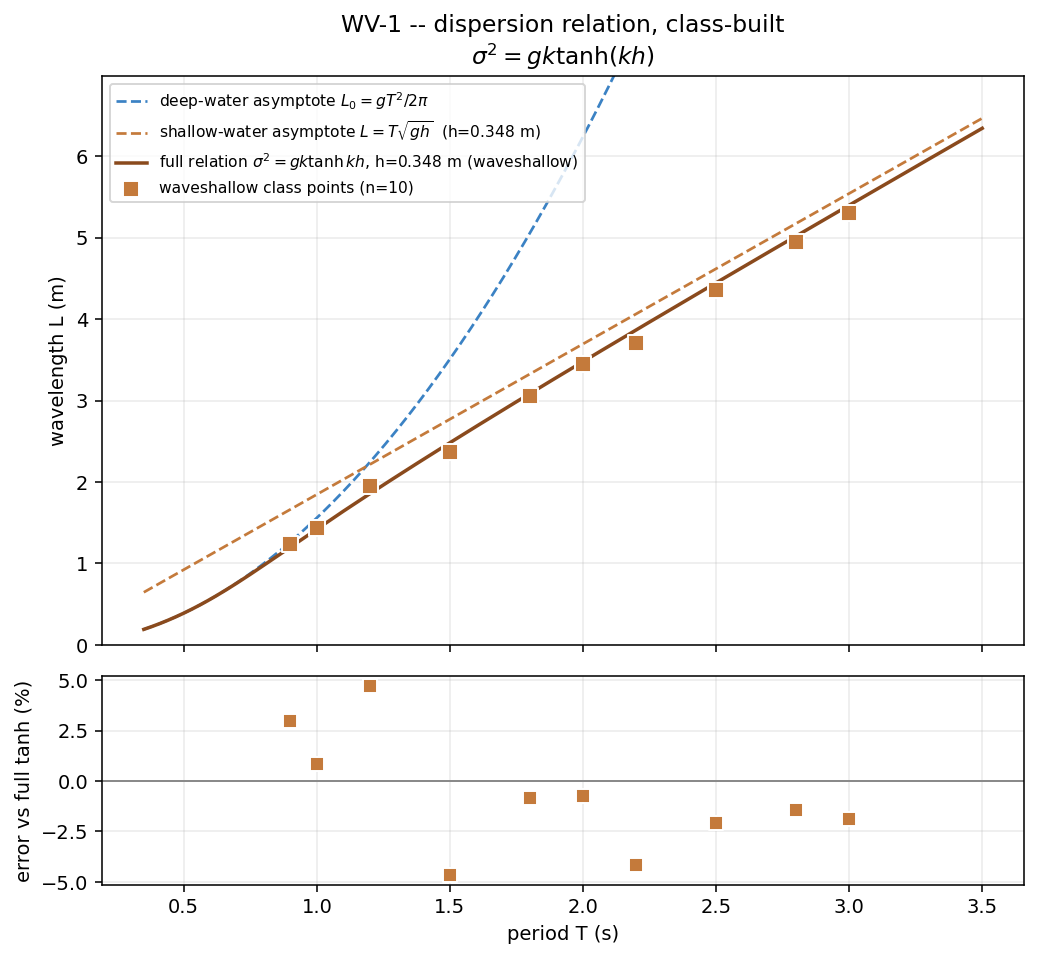
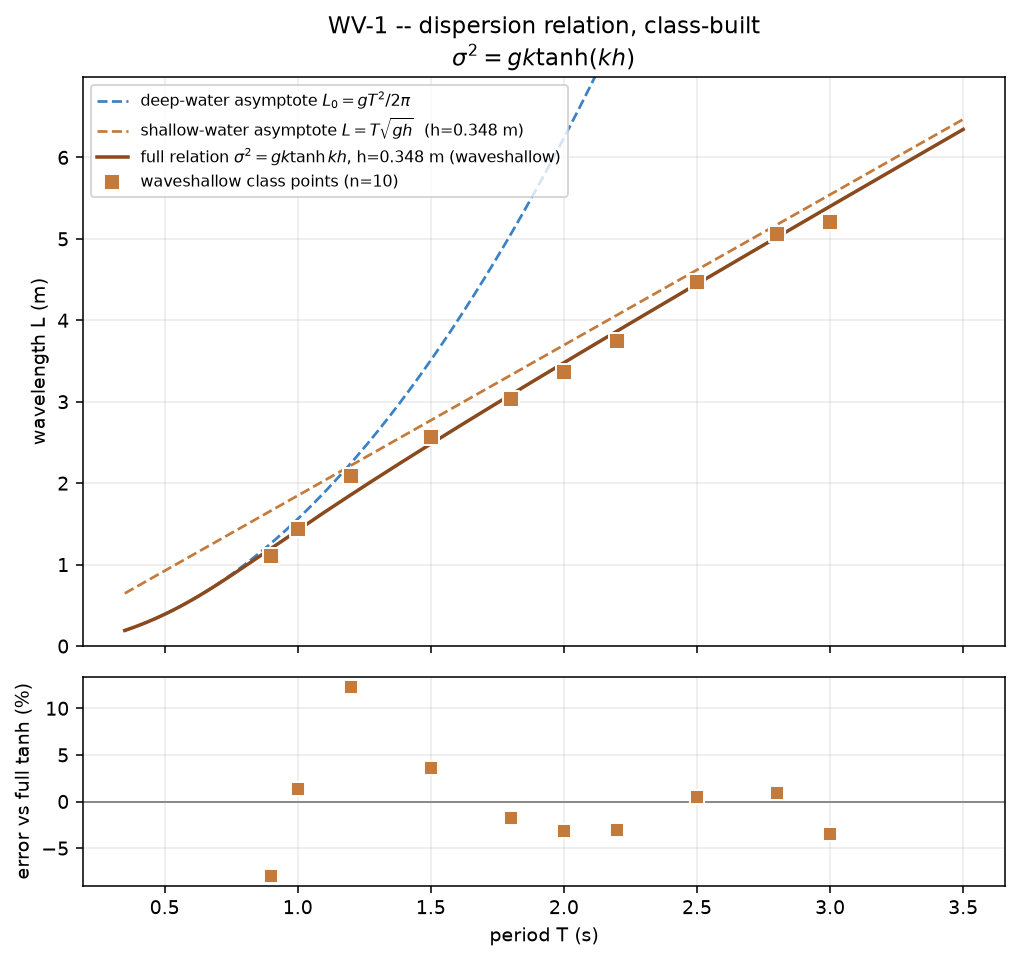
WV-1 re-measured with the closure off; waveshallow loop sizes (#2)
Barney's rig.js with the closure on reproduces his table here (T 0.9 /
1.5 / 3.0 s: +0.2 / 0 / -0.6%). With the closure off at nu 1e-4: 1.5-3.0 s
are within 4% of linear dispersion, and the middle of any three waves is
within 5%. The three short rows (0.9 / 1.0 / 1.2 s) time noisily: the lag
jitters from wave to wave, and the middle of three ranges -16 to +22%. The
median over every wave in the record is still within +4%. The digit table
is unchanged; the README says so and proposes timing more waves on those
rows. CSV and plot regenerated.

waveshallow tip: measured loop sizes with the closure off, about 0.15 m
long at every height, 2 mm tall at the bed and about 4 cm near the surface.

diff --git a/courses/original/exercises.js b/courses/original/exercises.js
@@ -831,12 +831,15 @@ COURSES.exercises("original", [
   // short ones break at the paddle or die within a metre, ±15% frame to
   // frame). The shallow flume's first metres hold a clean progressive wave
   // from 0.9 s to 3.0 s, kh = 1.8 to 0.40, and a time lag between two Depth
-  // gauges reads its length within a few per cent. Its short waves die
+  // gauges reads its length within a few per cent from 1.5 s up (0.9-1.2 s
+  // are noisier, -8% to +12%). Its short waves die
   // within ~1.5 m, so they are timed nearer the paddle; each pair is closer
   // than a wavelength, so the next up-crossing is the same wave. 4 and 5 s
   // are out: a 7-9 m wave barely fits the 3.7 m flat, the beach returns part
   // of it, and runs whose strokes differed by 0.5% timed it 3% short to 10%
-  // long. One wave's lag scatters by up to 20%; the middle of three by ~6%.
+  // long (closure-on values). One wave's lag scatters by up to 20%; the
+  // middle of three by ~5% from 1.5 s up, but 10-20% at 0.9-1.2 s with the
+  // closure off (re-measured Oct 2026, see the folder's README).
   {
     id: "WV-1",
     title: "Dispersion, one period each",

diff --git a/js/scenes.js b/js/scenes.js
@@ -1607,7 +1607,7 @@ const SCENES = (() => {
       amp: 0.10, period: 4.0, plife: 14, trail: 9,
       tracerX: 2.0, spinup: 30, view: { zoom: 1.9, cx: 2.0, cy: 0.44, vex: 2.2 },
       blurb: "A wave seven metres from crest to crest in 0.35 m of water. The whole depth moves together, the wave travels at √(gh), and it barely damps at all.",
-      tips: ["The trails are flat back-and-forth ellipses, the SAME size top to bottom — that is what 'shallow water' means.",
+      tips: ["The trails are flat back-and-forth ellipses, the SAME length top to bottom — that is what 'shallow water' means. Measured here, each loop is about 0.15 m long at every height, and 2 mm tall at the bed against 4 cm near the surface.",
              "Because every depth moves alike, one depth-averaged velocity describes the flow. That is the assumption every shallow-water model is built on.",
              "Contrast the <b>deep-water</b> flume, where the motion has died out entirely before you reach the bed.",
              "Long waves barely damp: measured H 0.059 m at 2 m and 0.057 m at 3 m along the flat bed, and still 0.046 m at 9 m, high up the beach.",

diff --git a/courses/original/exercises/WV-1-dispersion/README.md b/courses/original/exercises/WV-1-dispersion/README.md
@@ -29,8 +29,8 @@ still water h = 0.348 m deep, a piston paddle at x = 0.30 m and a 1 : 20
 beach from x = 4.0 m. Medium gives Δx = 11.2 mm, 31 cells over the depth.
 The card sets Medium, the paddle on, the gauges on Depth and particles off.
 The gauges go at **x = 1.0 and 3.0 m** on the flat; at **1.0 and 2.0 m**
-for 1.2 s; at **0.6 and 1.0 m** for 0.9 and 1.0 s, whose waves are nearly
-gone 2 m from the paddle. A Depth gauge reads its column's depth whatever
+for 1.2 s; at **0.6 and 1.0 m** for 0.9 and 1.0 s, whose waves are small
+2 m from the paddle (19 mm at 0.9 s). A Depth gauge reads its column's depth whatever
 height it is placed at. Each pair is closer than the wavelength, so the
 farther gauge's next up-crossing belongs to the same wave (two metres would
 not be, at 1.2 s).
@@ -38,10 +38,11 @@ not be, at 1.2 s).
 One flume covers kh = 1.8 to 0.40: a 0.9 s wave is 5% shorter than L₀ and a
 3 s wave 3% short of T√(gh). The deep-water end itself is out of reach: a
 0.7 s wave dies within a wavelength of the paddle (at a stroke of 0.015 m it
-is 48 mm high at x = 0.4 m and gone by 1.0 m), and a steeper stroke only makes
-it break there. The long end stops at 3 s. At 4 and 5 s the wave is 7–9 m
+is 48 mm high at x = 0.4 m and gone by 1.0 m; closure-on value, not
+re-measured), and a steeper stroke only makes it break there. The long end stops at 3 s. At 4 and 5 s the wave is 7–9 m
 long on a 3.7 m flat, the beach sends part of it back, and runs whose strokes
-differed by half a per cent timed it anywhere from 3% short to 10% long.
+differed by half a per cent timed it anywhere from 3% short to 10% long (closure-on value, not
+re-measured).
 
 The wait is about **30 s**.
 
@@ -63,8 +64,9 @@ flume does not give a clean wavelength at any period:
   crest beside the paddle read −9% to +11%, ±15% from frame to frame, and
   timing between two gauges was worse (±25–60%, except at 0.9 s).
 
-The shallow flume has neither problem: timed as the card says, every period
-lands within about 5% of linear theory.
+The shallow flume has neither problem: timed as the card says, the periods
+from 1.5 s up land within about 4% of linear theory. The three shortest
+(0.9–1.2 s) are noisier; see the table below.
 
 ## The assignment
 
@@ -95,7 +97,9 @@ paddle. These keep every row's wave a few centimetres high at the gauges.
 4. Submit T, Δt and L.
 
 Three waves because one is not enough: a single wave's Δt can be up to 20%
-off, the middle of three about 5%.
+off, the middle of three about 5% from 1.5 s up. At 0.9–1.2 s the waves are
+short and unsteady near the paddle, and the middle of three can still be
+10–20% off (table below).
 
 Timing a crossing of the still level rather than a crest: the crests of the
 longer waves are flat-topped and hard to place in time; the up-crossing is
@@ -124,21 +128,39 @@ set of three successive waves in all three runs.
 
 | T (s) | stroke (m) | gauges x (m) | kh | H (mm) | Δt (s) | L (m) | L, linear (m) | error | any three | L₀ (m) | T√(gh) (m) |
 |---|---|---|---|---|---|---|---|---|---|---|---|
-| 0.9 | 0.025 | 0.6 and 1.0 | 1.82 | 55 / 37 | 0.29 | 1.24 | 1.20 | +3% | −1 to +7% | 1.26 | 1.66 |
-| 1.0 | 0.030 | 0.6 and 1.0 | 1.54 | 64 / 49 | 0.28 | 1.44 | 1.42 | +1% | −2 to +4% | 1.56 | 1.85 |
-| 1.2 | 0.030 | 1.0 and 2.0 | 1.18 | 51 / 34 | 0.62 | 1.95 | 1.86 | +5% | −8 to +5% | 2.25 | 2.22 |
-| 1.5 | 0.035 | 1.0 and 3.0 | 0.88 | 52 / 30 | 1.27 | 2.37 | 2.48 | −5% | −5 to +2% | 3.51 | 2.77 |
-| 1.8 | 0.045 | 1.0 and 3.0 | 0.71 | 61 / 43 | 1.18 | 3.06 | 3.08 | −1% | −2 to +3% | 5.06 | 3.33 |
-| 2.0 | 0.060 | 1.0 and 3.0 | 0.63 | 67 / 57 | 1.16 | 3.45 | 3.48 | −1% | −2 to +2% | 6.25 | 3.70 |
-| 2.2 | 0.060 | 1.0 and 3.0 | 0.57 | 66 / 53 | 1.19 | 3.71 | 3.87 | −4% | −4 to +4% | 7.56 | 4.06 |
-| 2.5 | 0.060 | 1.0 and 3.0 | 0.49 | 63 / 46 | 1.15 | 4.35 | 4.45 | −2% | −5 to −2% | 9.76 | 4.62 |
-| 2.8 | 0.080 | 1.0 and 3.0 | 0.44 | 71 / 53 | 1.13 | 4.95 | 5.02 | −1% | −5 to −1% | 12.24 | 5.17 |
-| 3.0 | 0.100 | 1.0 and 3.0 | 0.40 | 88 / 74 | 1.13 | 5.30 | 5.40 | −2% | −4 to +6% | 14.05 | 5.54 |
+| 0.9 | 0.025 | 0.6 and 1.0 | 1.82 | 59 / 43 | 0.33 | 1.10 | 1.20 | −8% | −8 to +19% | 1.26 | 1.66 |
+| 1.0 | 0.030 | 0.6 and 1.0 | 1.54 | 71 / 56 | 0.28 | 1.44 | 1.42 | +1% | −16 to +22% | 1.56 | 1.85 |
+| 1.2 | 0.030 | 1.0 and 2.0 | 1.18 | 48 / 38 | 0.58 | 2.09 | 1.86 | +12% | −2 to +12% | 2.25 | 2.22 |
+| 1.5 | 0.035 | 1.0 and 3.0 | 0.88 | 54 / 39 | 1.17 | 2.57 | 2.48 | +4% | −3 to +4% | 3.51 | 2.77 |
+| 1.8 | 0.045 | 1.0 and 3.0 | 0.71 | 61 / 48 | 1.19 | 3.03 | 3.08 | −2% | −2 to +4% | 5.06 | 3.33 |
+| 2.0 | 0.060 | 1.0 and 3.0 | 0.63 | 70 / 50 | 1.19 | 3.37 | 3.48 | −3% | −3 to +1% | 6.25 | 3.70 |
+| 2.2 | 0.060 | 1.0 and 3.0 | 0.57 | 70 / 47 | 1.17 | 3.75 | 3.87 | −3% | −4 to +1% | 7.56 | 4.06 |
+| 2.5 | 0.060 | 1.0 and 3.0 | 0.49 | 60 / 50 | 1.12 | 4.47 | 4.45 | +1% | −5 to 0% | 9.76 | 4.62 |
+| 2.8 | 0.080 | 1.0 and 3.0 | 0.44 | 69 / 61 | 1.11 | 5.07 | 5.02 | +1% | −3 to +4% | 12.24 | 5.17 |
+| 3.0 | 0.100 | 1.0 and 3.0 | 0.40 | 75 / 69 | 1.15 | 5.21 | 5.40 | −4% | −5 to −2% | 14.05 | 5.54 |
 
-Every row lands within 5% of linear dispersion, and the middle of any three
-waves within 8%. One wave alone scatters more: up to 20% at 1.2 s. Neither
+From 1.5 s up every row lands within 4% of linear dispersion, and the middle
+of any three waves within 5%. The three short rows do not: the first-three
+middle is −8%, +1% and +12% at 0.9, 1.0 and 1.2 s, and the middle of any three
+ranges from −16% to +22%, because the lag itself jitters from wave to wave
+(0.23–0.34 s at 0.9 s, 0.54–0.72 s at 1.2 s). The median over every wave in
+the 12 s record is better (+4%, +1%, +2%), so a class that times more waves
+and averages would do well there; the card's three-wave rule does not. A
+single wave scatters up to 20% at 0.9–1.2 s. Neither
 asymptote holds across the class: the full relation is 5% short of L₀ at
 0.9 s and 17% short at 1.2 s, and still 3% short of T√(gh) at 3.0 s.
+
+> **Re-measured Oct 2026** with the mixing-length closure off in the wave
+> flumes (ν = 1e-4; mvreeuwijk/hydraulician#2), Windows/D3D11 rather than
+> Apple M5/Metal. The closure-on values (ν = 1e-5) the card was designed with
+> were: Δt 0.29, 0.28, 0.62, 1.27, 1.18, 1.16, 1.19, 1.15, 1.13, 1.13 s and L
+> 1.24, 1.44, 1.95, 2.37, 3.06, 3.45, 3.71, 4.35, 4.95, 5.30 m, every row
+> within 5% and the middle of any three within 8%. Re-run here with the
+> closure on, 0.9, 1.5 and 3.0 s give L = 1.20, 2.48 and 5.37 m, inside the
+> old bands. With it off the long rows (1.5–3.0 s) move by 1–5%, but the short
+> ones (0.9–1.2 s) lose the damping that smoothed their trace and scatter
+> more; at 2 m from the paddle a 0.9 s wave is still 19 mm and a 1.2 s wave
+> 38 mm high.
 
 ## Pooling the class
 
